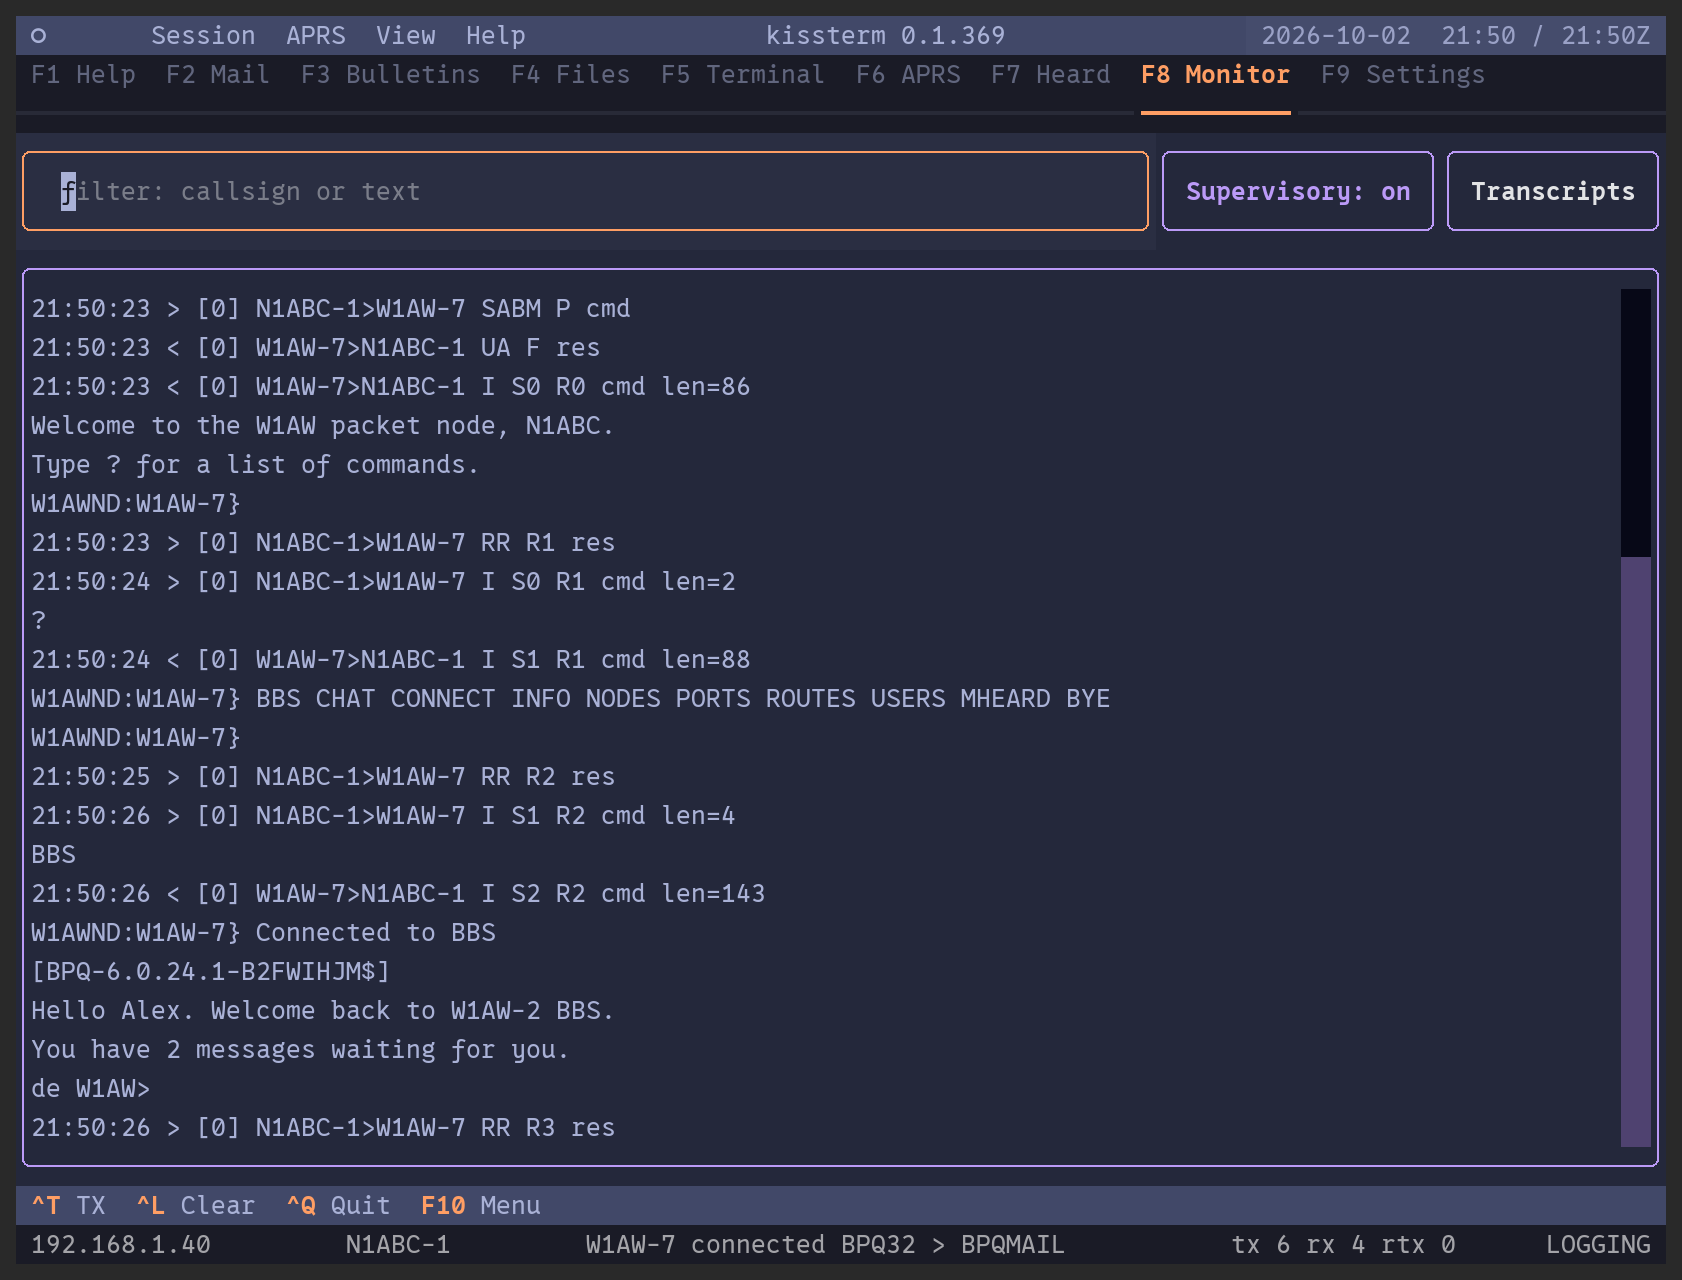
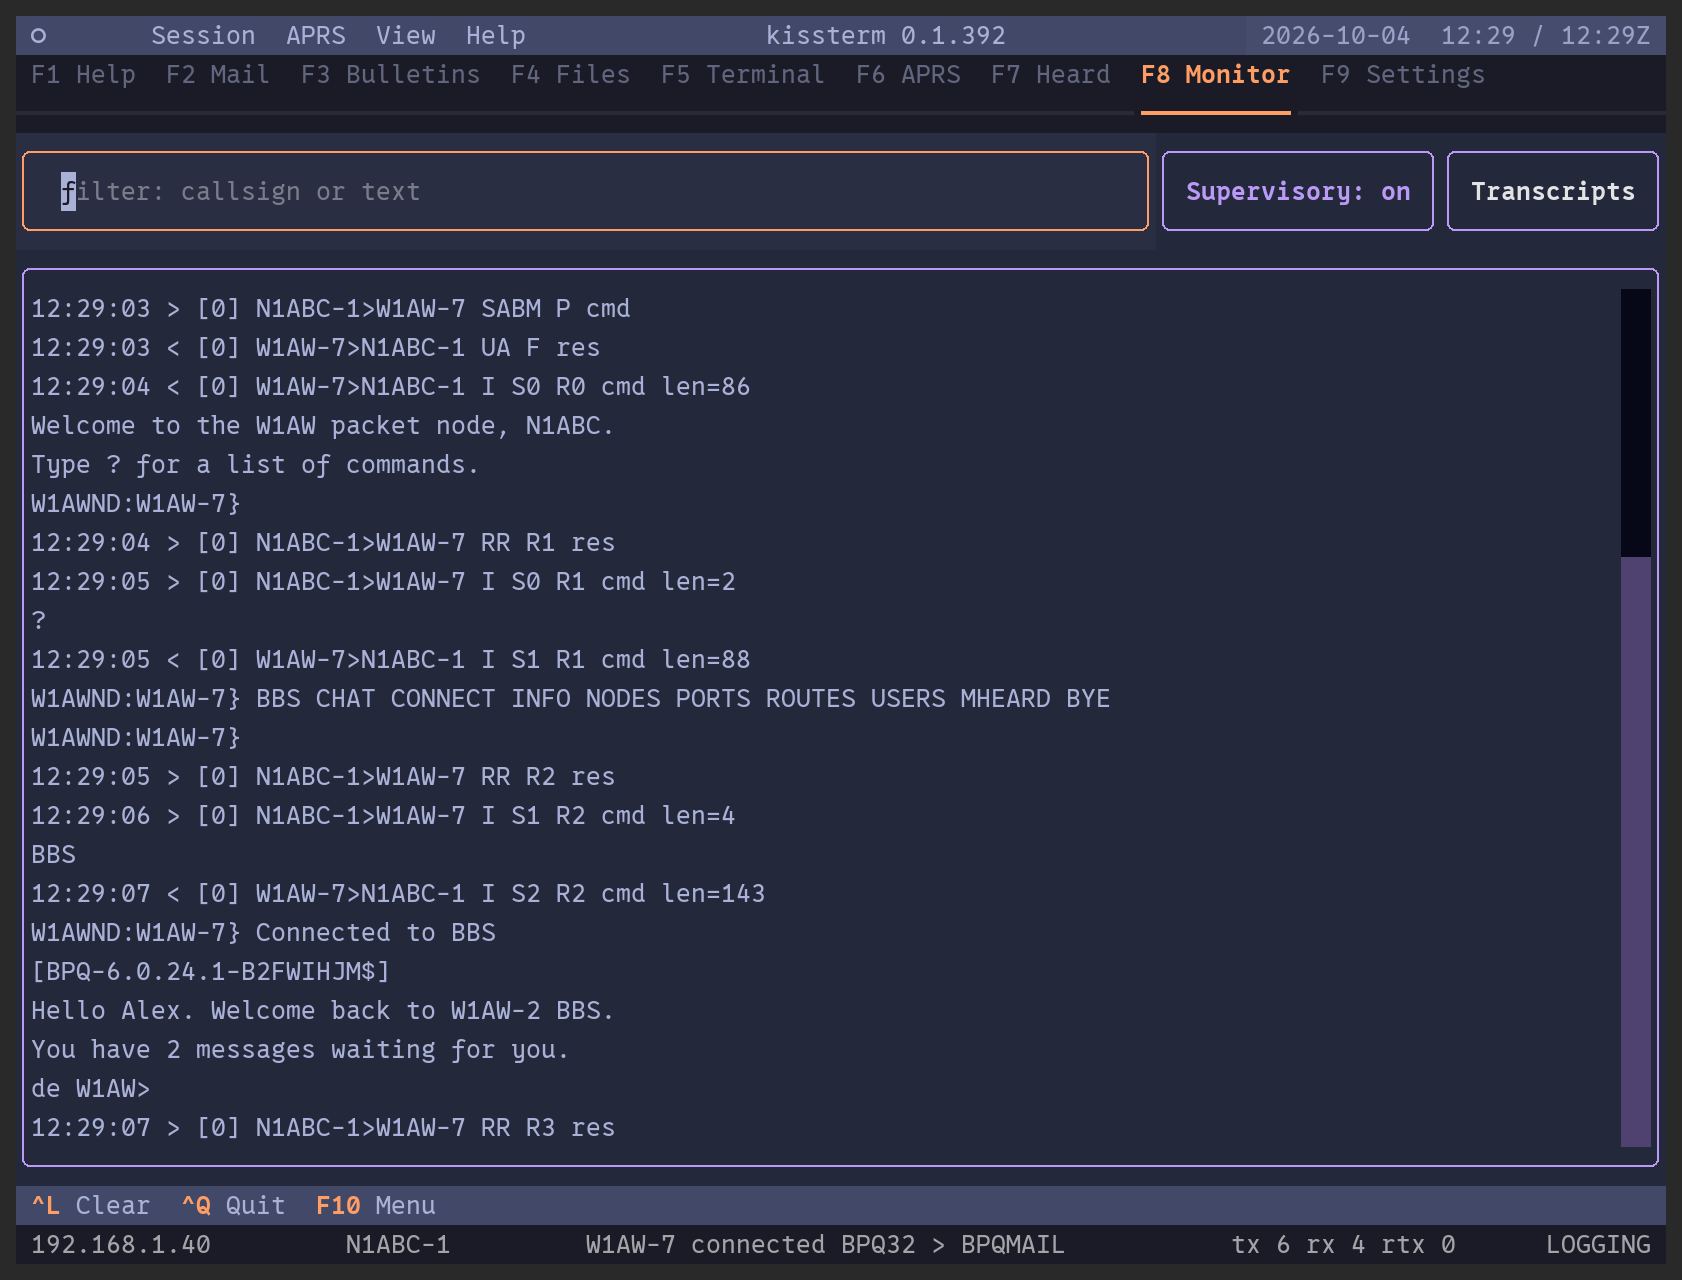
Footer: ^T TX only on the tabs where a key can transmit

diff --git a/kissterm/ui/commands.py b/kissterm/ui/commands.py
@@ -39,6 +39,13 @@ TAB_ORDER = (
     "mail", "bulletins", "files", "terminal", "aprs", "heard", "monitor", "settings",
 )
 
+#: Tabs with a key that can transmit (G on Mail, Bulletins and Files, S on
+#: Files, a sent line, an APRS message): only these show ^T TX in the Footer.
+#: Ctrl+T itself works on every tab, and the status bar's TX OFF is always in
+#: view; Heard, Monitor and Settings transmit nothing, so the key there was
+#: a reminder of a switch nothing on them uses (operator, 2026-10-04).
+TRANSMITTING_TABS = ("mail", "bulletins", "files", "terminal", "aprs")
+
 TAB_TITLES = {
     "mail": "Mail",
     "bulletins": "Bulletins",
@@ -58,16 +65,18 @@ TAB_HELP = {
         "Your mail, filed by kind: BBS, Winlink, and All Inboxes for both "
         "at once. Choose a folder on the left, then a message: Enter opens "
         "it, Delete moves it to Deleted, and U in Deleted puts it back. "
-        "Nothing here transmits."
+        "G sends and receives over the air; nothing else here transmits."
     ),
     "bulletins": (
         "Bulletins by category (WX, ARES, ALL ...). Enter opens one; Delete "
-        "moves it to Deleted. Nothing here transmits."
+        "moves it to Deleted. G gets new bulletins from the Home BBS over "
+        "the air; nothing else here transmits."
     ),
     "files": (
         "Files you have downloaded or received, and message attachments. "
-        "Enter shows a text file; nothing here is ever run or opened by "
-        "another program."
+        "Enter opens a file in the viewer; nothing here is ever run or "
+        "opened by another program. G gets files from the Home BBS and S "
+        "sends one over the connected session."
     ),
     "terminal": (
         "Talk to a node, a BBS or another station. Ctrl+N connects. Then type "
@@ -170,7 +179,7 @@ COMMANDS: tuple[Command, ...] = (
             tabs=("terminal",), footer=("terminal",), priority=True),
     Command("toggle_transmit", "Transmit on/off", "Session", "T",
             "The master transmit switch; nothing keys the radio while it is off",
-            key="ctrl+t", footer=("*",), short="TX"),
+            key="ctrl+t", footer=TRANSMITTING_TABS, short="TX"),
     Command("reconnect", "Reconnect", "Session", "E",
             "Connect again to the station this Terminal tab was connected to, "
             "the same way (hops and login included)", key="ctrl+r",

diff --git a/tests/unit/test_commands.py b/tests/unit/test_commands.py
@@ -72,9 +72,13 @@ def test_the_footer_shows_only_what_applies_to_the_tab():
     assert "clear_log" in aprs
     for tab in cmd.TAB_ORDER:
         actions = [c.action for c in cmd.footer_commands(tab)]
-        # Transmit leads: it is the one switch every tab needs in view. Help
-        # is not here at all -- it is a tab, printed in the tab row.
-        assert actions[0] == "toggle_transmit", tab
+        # Transmit leads where something on the tab transmits, and is left
+        # out where nothing does (2026-10-04). Help is not here at all --
+        # it is a tab, printed in the tab row.
+        if tab in cmd.TRANSMITTING_TABS:
+            assert actions[0] == "toggle_transmit", tab
+        else:
+            assert "toggle_transmit" not in actions, tab
         assert "help" not in actions, tab
         assert len(set(actions)) == len(actions), f"{tab} repeats a key: {actions}"
 

diff --git a/kissterm/__init__.py b/kissterm/__init__.py
@@ -14,7 +14,7 @@ import __version__` fails with a confusing "unknown location" ImportError --
 this has already happened once.
 """
 
-__version__ = "0.1.392"
+__version__ = "0.1.393"
 
 __all__ = ["__version__"]
 

diff --git a/docs/CHANGELOG.md b/docs/CHANGELOG.md
@@ -5,6 +5,21 @@ long, with a **Files:** line. Entries from before 2026-09-22 (the P0
 stabilization rewrite) are in `docs/CHANGELOG-archive.md`; read it only when
 you need the history of a specific change.
 
+## [2026-10-04] — ^T TX only on tabs that can transmit
+
+### Improvements
+
+- **The Footer shows `^T TX` only on Mail, Bulletins, Files, Terminal
+  and APRS**, where a key can transmit; Heard, Monitor and Settings
+  transmit nothing and no longer show it. Ctrl+T still works on every
+  tab, and `TX OFF` stays in the status bar. The Help page's Mail,
+  Bulletins and Files paragraphs now say which of their keys transmit
+  (they said "Nothing here transmits", stale since G).
+
+**Files:** `kissterm/ui/commands.py`, `tests/unit/test_commands.py`,
+`DESIGN.md`, `assets/screenshot-heard.png`, `assets/screenshot-monitor.png`,
+`assets/screenshot-settings.png`, `docs/CHANGELOG.md`
+
 ## [2026-10-04] — G on the Files tab gets files from the Home BBS
 
 ### New Features

diff --git a/DESIGN.md b/DESIGN.md
@@ -500,7 +500,10 @@ Illustrative, not literal: which keys fit is a function of terminal width
 (see section 5's Footer rules). `F10 Menu` is pinned to the right (F1 is
 in the tab row, not here); the keys before it are dropped from the right as the
 terminal narrows, and `^D Disconnect` joins them only while there is a
-session to end.
+session to end. `^T TX` leads on the tabs where a key can transmit (Mail,
+Bulletins, Files, Terminal, APRS) and is left out on Heard, Monitor and
+Settings, where nothing does; Ctrl+T still works there, and `TX OFF` in
+the status bar is always in view (`commands.TRANSMITTING_TABS`).
 
 - **Footer above, status below.** Keys you might press come first, reading top
   to bottom; the passive readout comes last.
